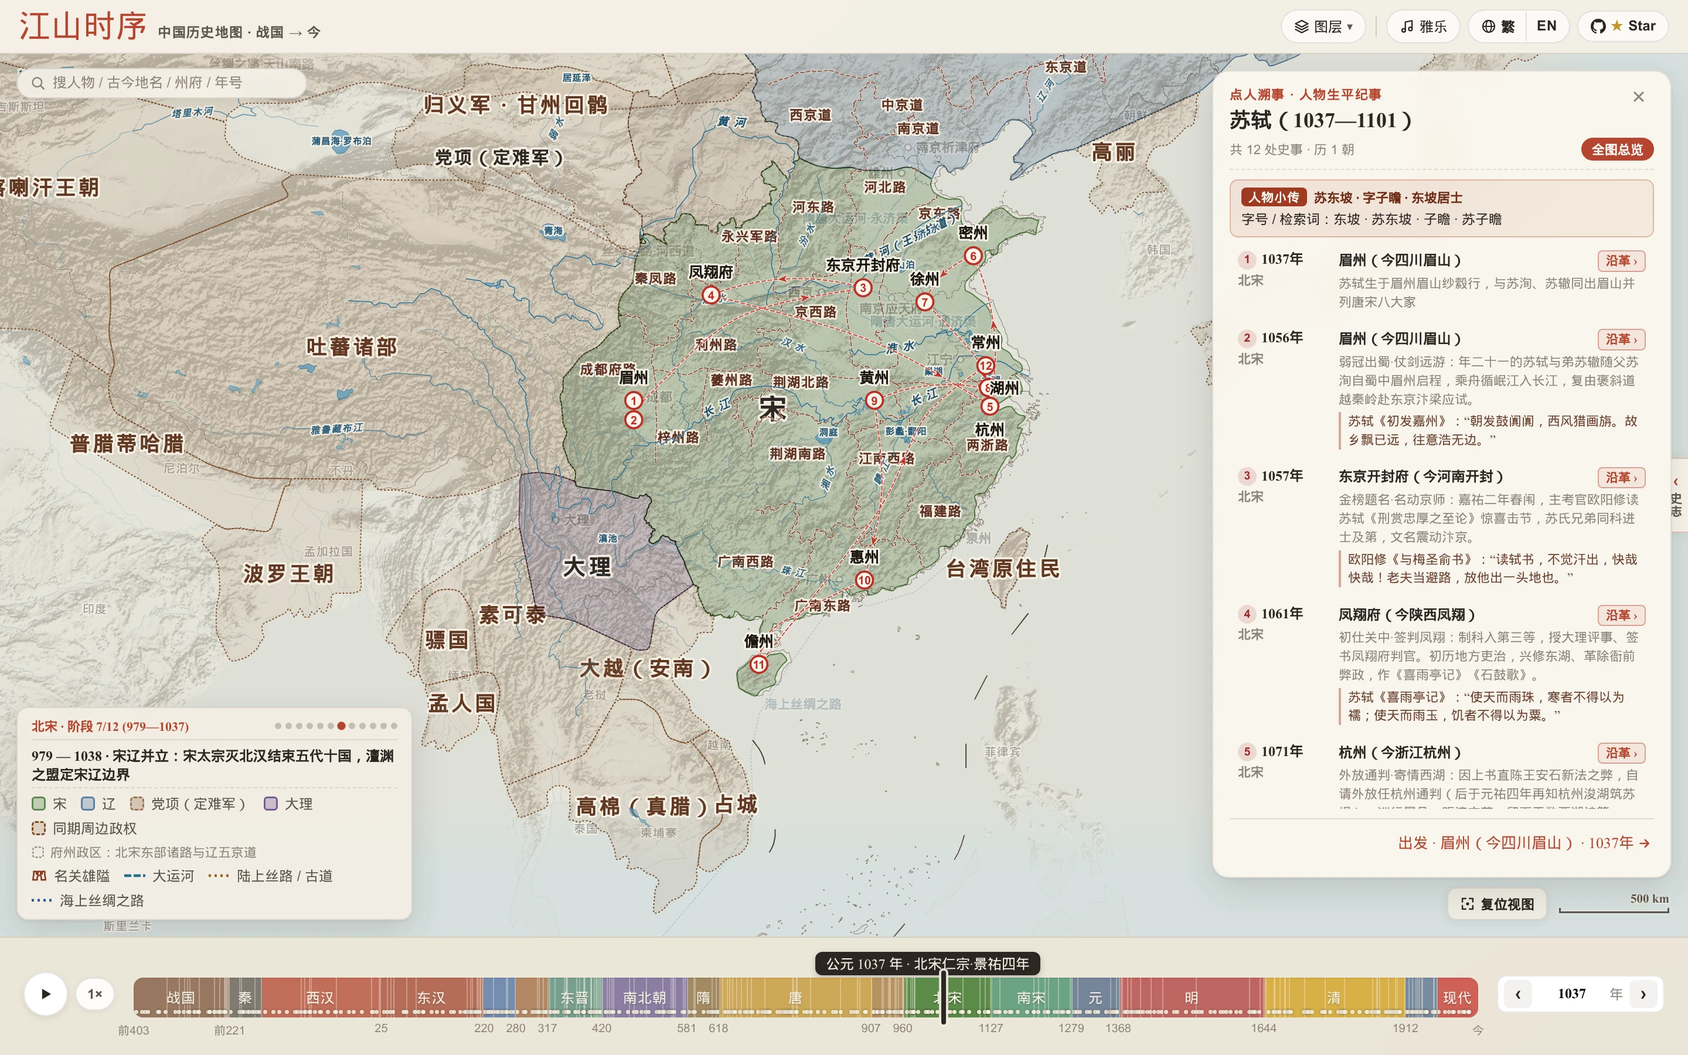
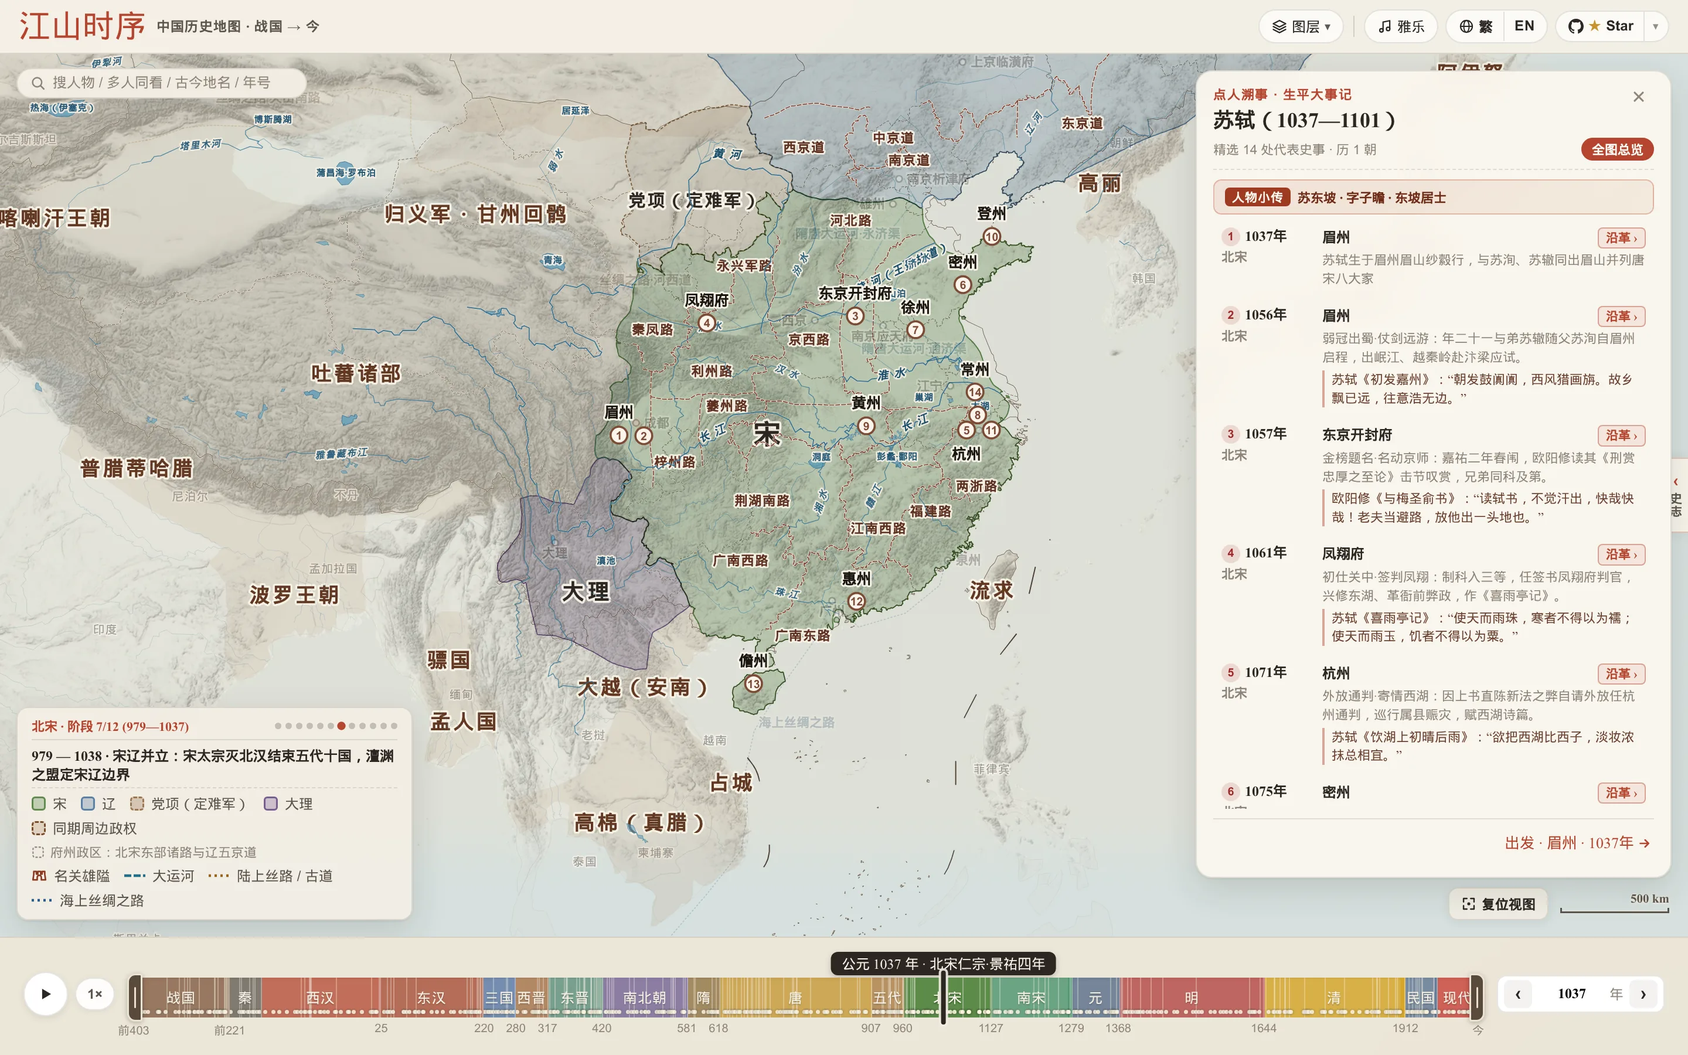
docs(readme): re-record hero animations and previews; document multi-person chronicles and event storylines

diff --git a/README_JA.md b/README_JA.md
@@ -45,7 +45,8 @@
 - **多段階の領土の変遷と、破線の「Ghost Boundary Diff」**：秦の巴蜀の征服（紀元前 316 年）、燕の将軍・秦開による遼東への拡大（紀元前 300 年）、交趾に立てた馬援の銅柱（43 年）、司馬懿の遼東遠征（238 年）、李靖による吐谷渾の征服（635 年）、安西四鎮と王玄策の中天竺への遠征（648 年）、元の宣政院によるチベットの統治（1288 年）、明の哈密と嘉峪関以西の七衛（1404 年）、イリを回復した 1881 年のサンクトペテルブルク条約、1898 年の外国の租借地、1945 年の台湾の返還、そして 1946 年の **「秋海棠」（秋海棠）** の地図から **「雄鶏」（雄鸡）** の地図への移行など、領土の大きな節目ごとに、出来事や時期の点をクリックすると地図が切り替わり、前の時期の朱色の破線の **Ghost Boundary Diff** が表示されるので、領土の増減がひと目でわかります。
 - **在位中の君主と元号のインライン表示**：タイムラインには、在位中の君主（廟号・諡号 + 名 + 在位期間。例：`Emperor Wu of Han · Liu Che`、`Emperor Taizong of Tang · Li Shimin`、`Emperor Shengzu of Qing · Xuanye`）と、その正確な元号の年が動的に表示されます。
 - **古代の行政区画のホバーでの確認と、現代の X-Ray Lens**：第一級の行政区画（郡、道、路、省）は、重複を除いた **Parchment Casing** の境界線で描かれます。ズームしてどの行政区画（例：明の `Yingtian Prefecture` や三国時代の `Jingzhou`）にカーソルを合わせても、その管轄と対応する現代の省を確認できます。**X-Ray Lens** を切り替えると、現代の省の境界線を歴史地図の上に直接重ねられます。
-- **動く河道、古代の湖、大規模な土木事業**：時間をスクロールすると、黄河の流路の歴史的な変化、広がったり縮んだりする古代の湖（*雲夢沢*、*ロプノール / 蒲昌海*）、戦国・秦・漢・明の長城、隋唐の運河と大運河、シルクロード、鄭和の航路が、それぞれの時代に合わせて変わっていきます。
+- **動く河道、古代の湖、大規模な土木事業**：時間をスクロールすると、黄河の流路の歴史的な変化、広がったり縮んだりする古代の湖（*雲夢沢*、*ロプノール / 蒲昌海*）、戦国・秦・漢・明の長城、隋唐の運河と大運河、シルクロード、鄭和の航路が、それぞれの時代に合わせて変わっていきます。渤海湾、江蘇北部、長江河口、珠江デルタの古代の海岸線も、時代とともに前進・後退します。
+- **ズームできるタイムライン**：タイムライン両端のハンドルを内側へドラッグすると、その期間だけを拡大できます（秦、三国、五代のような短い時代に便利です）。タイムラインをダブルクリックすると全体表示に戻ります。
 
 > [ライブで試す：明の永楽 13 年（1415 年）· 両京十三布政使司と「Yingtian Prefecture」の確認 →](https://deanchen.me/jiangshan-map/?year=1415&zoom=1.75&center=115.8,33.2&hover=Yingtian%20Prefecture&lang=en)
 
@@ -76,6 +77,8 @@
 - **李白の唐全土への大旅行（701～762 年）**：砕葉と蜀での少年時代から、24 歳で三峡を下って船出し、揚州で金を散じ、長安の翰林院に仕え、洛陽で杜甫に出会い、白帝城で恩赦を受け、晩年の当塗まで。
 - **蘇軾の宋全土にわたる文学と流謫（1056～1101 年）**：眉山を出て都の開封に向かい、密州で月を眺め、黄州での流謫中に『赤壁賦』を詠み、恵州を経て、海を渡って海南島の儋州へ至るまで。
 - **王陽明の知行合一（1472～1529 年）**：余姚での誕生と北京での投獄から、貴州の龍場での悟り、南贛での賊の平定、35 日で寧王の反乱を捕らえたこと、紹興の天泉橋での講学、そして南安での最期の言葉 *「此の心光明なり、亦た復た何をか言わん」* まで。
+- **複数人物の同時表示**：検索ボックスに 2〜3 人の名前を入力すると（例：`李白 杜甫 高適`、`曹操 劉備 孫権`）、それぞれの足跡が 1 本のタイムラインにまとめられます。同じ年に同じ場所で出会った地点は「同途」として示され、`同途 N` のピルでその地点だけに絞り込めます。
+- **歴史的事件のストーリーライン**：大きな事件も、人物の生涯と同じように地点ごとにたどれます。安史の乱（755〜763 年）は 3 幕・10 地点で展開し、唐の討伐軍と反乱軍を 2 色で塗り分けるので、両陣営の動きがひと目でわかります。
 
 次の出来事に進むたびに（`‹ / ›`、`← / →`、または `Space` で自動再生）、**タイムラインの年、在位中の君主、元号、王朝の領土が、その人物の足取りに合わせて変わります**。現在の移動の弧が強調され、まさにその場所で書かれた 2 か国語の一次史料の抜粋や詩も表示されます。
 
@@ -118,6 +121,7 @@
 - **都市の 2,400 年の系譜を確認**：[`?year=741&place=长安&lang=en`](https://deanchen.me/jiangshan-map/?year=741&place=长安&lang=en)（長安 / 西安）/ [`?year=1415&place=应天府&lang=en`](https://deanchen.me/jiangshan-map/?year=1415&place=应天府&lang=en)（建康 / 応天 / 南京）/ [`?year=819&place=蓝关&lang=en`](https://deanchen.me/jiangshan-map/?year=819&place=蓝关&lang=en)（藍関の韓愈）
 - **独自の詩や遠征のルートを描く**：[`?year=763&place=剑外,巴峡,巫峡,襄阳,洛阳&lang=en`](https://deanchen.me/jiangshan-map/?year=763&place=剑外,巴峡,巫峡,襄阳,洛阳&lang=en)（763 年の杜甫の帰郷の道のり）/ [`?year=1079,1080,1094,1097&place=湖州,黄州,惠州,儋州&lang=en`](https://deanchen.me/jiangshan-map/?year=1079,1080,1094,1097&place=湖州,黄州,惠州,儋州&lang=en)（湖州、黄州、恵州、儋州にわたる、蘇軾の何年にもわたる流謫の道のり）
 - **人物の時空の年代記を開く**：[`?person=qinshihuang&lang=en`](https://deanchen.me/jiangshan-map/?person=qinshihuang&lang=en)（始皇帝）/ [`?person=zhangqian&lang=en`](https://deanchen.me/jiangshan-map/?person=zhangqian&lang=en)（張騫）/ [`?person=zhugeliang&lang=en`](https://deanchen.me/jiangshan-map/?person=zhugeliang&lang=en)（諸葛亮）/ [`?person=xuanzang&lang=en`](https://deanchen.me/jiangshan-map/?person=xuanzang&lang=en)（玄奘）/ [`?person=libai&lang=en`](https://deanchen.me/jiangshan-map/?person=libai&lang=en)（李白）/ [`?person=sushi&lang=en`](https://deanchen.me/jiangshan-map/?person=sushi&lang=en)（蘇軾）/ [`?person=wangyangming&lang=en`](https://deanchen.me/jiangshan-map/?person=wangyangming&lang=en)（王陽明）
+- **複数人物の比較や事件をたどる**：[`?person=libai,dufu&lang=en`](https://deanchen.me/jiangshan-map/?person=libai,dufu&lang=en)（李白と杜甫）/ [`?person=caocao,liubei,sunquan&lang=en`](https://deanchen.me/jiangshan-map/?person=caocao,liubei,sunquan&lang=en)（曹操・劉備・孫権）/ [`?event=anshi&lang=en`](https://deanchen.me/jiangshan-map/?event=anshi&lang=en)（安史の乱）
 - **クイズを始める**：[`?year=-121&quiz=locate&lang=en`](https://deanchen.me/jiangshan-map/?year=-121&quiz=locate&lang=en)（Map Pinpoint Challenge）
 - **UI の言語を切り替える**：[`?lang=en`](https://deanchen.me/jiangshan-map/?lang=en)（英語）/ [`?lang=zh-tw`](https://deanchen.me/jiangshan-map/?lang=zh-tw)（繁体字中国語）/ [`/`](https://deanchen.me/jiangshan-map/)（簡体字中国語）
 

diff --git a/README.md b/README.md
@@ -45,7 +45,8 @@ Have you ever wondered while reading Chinese history or classical poetry:
 - **Multi-Stage Territorial Evolution & Dashed "Ghost Boundary Diffs"**: At every major territorial milestone—such as Qin's conquest of Ba-Shu (316 BCE), Yan General Qin Kai's expansion into Liaodong (300 BCE), Ma Yuan's bronze pillars in Jiaozhi (43 CE), Sima Yi's campaign in Liaodong (238 CE), Li Jing's conquest of Tuyuhun (635 CE), the Four Garrisons of Anxi & Wang Xuance's campaign in Central India (648 CE), Yuan's Xuanzhengyuan rule over Tibet (1288 CE), Ming's Hami & Seven Guards West of Jiayuguan (1404 CE), the 1881 Treaty of Saint Petersburg recovering Ili, the 1898 foreign leased territories, the 1945 retrocession of Taiwan, and the 1946 transition from the **"Begonia Leaf" (秋海棠)** map to the **"Rooster" (雄鸡)** map—click any milestone or phase dot to switch maps and reveal the previous phase's dashed vermilion **Ghost Boundary Diff** so territorial gains and losses are immediately visible.
 - **Inline Reigning Monarch & Imperial Era Display**: The timeline dynamically displays the reigning monarch (temple/posthumous title + personal name + reign span, e.g., `Emperor Wu of Han · Liu Che`, `Emperor Taizong of Tang · Li Shimin`, `Emperor Shengzu of Qing · Xuanye`) alongside the exact imperial era year.
 - **Ancient Prefecture Hover Inspection & Modern X-Ray Lens**: First-level administrative divisions (Commanderies, Circuits, Routes, and Provinces) are rendered with deduplicated **Parchment Casing** borders. Zoom in and hover over any prefecture (e.g., Ming `Yingtian Prefecture` or Three Kingdoms `Jingzhou`) to inspect its jurisdiction and modern provincial equivalents, or toggle the **X-Ray Lens** to project modern provincial boundaries directly over the historical map.
-- **Dynamic River Courses, Ancient Lakes & Grand Engineering Works**: As you scrub through time, historical shifts of the Yellow River, expanding and shrinking ancient lakes (*Yunmeng Marsh*, *Lop Nur / Puchanghai*), Warring States/Qin/Han/Ming Great Walls, Sui-Tang & Grand Canals, the Silk Road, and Zheng He's maritime routes evolve in lockstep with each era.
+- **Dynamic River Courses, Ancient Lakes & Grand Engineering Works**: As you scrub through time, historical shifts of the Yellow River, expanding and shrinking ancient lakes (*Yunmeng Marsh*, *Lop Nur / Puchanghai*), Warring States/Qin/Han/Ming Great Walls, Sui-Tang & Grand Canals, the Silk Road, and Zheng He's maritime routes evolve in lockstep with each era; ancient coastlines around the Bohai Gulf, northern Jiangsu, the Yangtze estuary, and the Pearl River Delta also advance and retreat by era.
+- **Zoomable Timeline**: Drag the handles at either end of the timeline inward to zoom into one stretch of history (handy for short eras such as Qin, the Three Kingdoms, or the Five Dynasties); double-click the timeline to return to the full overview.
 
 > [Try It Live: Ming Dynasty Yongle 13 (1415 CE) · Two Capitals, Thirteen Provinces & "Yingtian Prefecture" Inspection →](https://deanchen.me/jiangshan-map/?year=1415&zoom=1.75&center=115.8,33.2&hover=Yingtian%20Prefecture&lang=en)
 
@@ -76,6 +77,8 @@ Click the top-left **Universal Search Box** (with a rotatable `e.g.` figure prev
 - **Li Bai's Grand Travels Across Tang China (701–762 CE)**: From Suyab and boyhood in Shu, sailing out through the Three Gorges at twenty-four, scattering gold in Yangzhou, serving in the Hanlin Academy at Chang'an, meeting Du Fu in Luoyang, receiving amnesty at White Emperor City, to his final years at Dangtu.
 - **Su Shi's Literary Exile Across Song China (1056–1101 CE)**: From leaving Meishan for the capital Kaifeng and gazing at the moon in Mizhou, to composing the *Red Cliffs Rhapsody* in Huangzhou exile, Huizhou, and crossing the sea to Danzhou on Hainan Island.
 - **Wang Yangming's Unity of Knowledge & Action (1472–1529 CE)**: From birth in Yuyao and imprisonment in Beijing, to his enlightenment at Longchang in Guizhou, pacifying bandits in Southern Ganzhou, capturing the rebel Prince of Ning in 35 days, teaching at the Tianquan Bridge in Shaoxing, and his final words *"This mind is bright and clear; what more is there to say?"* at Nan'an.
+- **Multi-Person Chronicles**: Type two or three names into the search box (e.g. `Li Bai, Du Fu, Gao Shi` or `Cao Cao, Liu Bei, Sun Quan`) to merge their journeys onto one timeline. Places where they met in the same year are marked as shared encounters, and the `Shared N` pill narrows the list to just those stops.
+- **Event Storylines**: Major events unfold stop by stop, just like a person's life. The An Lushan Rebellion (755–763 CE) is laid out in ten stops across three acts, with the Tang loyalists and the rebels drawn in two colors so each side's advances are easy to follow.
 
 Each time you step to the next event (`‹ / ›`, `← / →`, or `Space` to auto-play), **the timeline year, reigning monarch, imperial era, and dynastic territories evolve in sync with their footsteps**, highlighting the active transition arc alongside bilingual primary-source excerpts and poems written at that exact site.
 
@@ -118,6 +121,7 @@ Append query parameters to share any historical moment, battle, city genealogy, 
 - **Inspect a city's 2,400-year genealogy**: [`?year=741&place=长安&lang=en`](https://deanchen.me/jiangshan-map/?year=741&place=长安&lang=en) (Chang'an / Xi'an) / [`?year=1415&place=应天府&lang=en`](https://deanchen.me/jiangshan-map/?year=1415&place=应天府&lang=en) (Jiankang / Yingtian / Nanjing) / [`?year=819&place=蓝关&lang=en`](https://deanchen.me/jiangshan-map/?year=819&place=蓝关&lang=en) (Han Yu at Languan Pass)
 - **Plot a custom poetic or campaign route**: [`?year=763&place=剑外,巴峡,巫峡,襄阳,洛阳&lang=en`](https://deanchen.me/jiangshan-map/?year=763&place=剑外,巴峡,巫峡,襄阳,洛阳&lang=en) (Du Fu's 763 CE homeward route) / [`?year=1079,1080,1094,1097&place=湖州,黄州,惠州,儋州&lang=en`](https://deanchen.me/jiangshan-map/?year=1079,1080,1094,1097&place=湖州,黄州,惠州,儋州&lang=en) (Su Shi's multi-year exile route across Huzhou, Huangzhou, Huizhou, and Danzhou)
 - **Open a person's spatio-temporal chronicle**: [`?person=qinshihuang&lang=en`](https://deanchen.me/jiangshan-map/?person=qinshihuang&lang=en) (Qin Shi Huang) / [`?person=zhangqian&lang=en`](https://deanchen.me/jiangshan-map/?person=zhangqian&lang=en) (Zhang Qian) / [`?person=zhugeliang&lang=en`](https://deanchen.me/jiangshan-map/?person=zhugeliang&lang=en) (Zhuge Liang) / [`?person=xuanzang&lang=en`](https://deanchen.me/jiangshan-map/?person=xuanzang&lang=en) (Xuanzang) / [`?person=libai&lang=en`](https://deanchen.me/jiangshan-map/?person=libai&lang=en) (Li Bai) / [`?person=sushi&lang=en`](https://deanchen.me/jiangshan-map/?person=sushi&lang=en) (Su Shi) / [`?person=wangyangming&lang=en`](https://deanchen.me/jiangshan-map/?person=wangyangming&lang=en) (Wang Yangming)
+- **Compare several people or follow an event**: [`?person=libai,dufu&lang=en`](https://deanchen.me/jiangshan-map/?person=libai,dufu&lang=en) (Li Bai & Du Fu) / [`?person=caocao,liubei,sunquan&lang=en`](https://deanchen.me/jiangshan-map/?person=caocao,liubei,sunquan&lang=en) (Cao Cao, Liu Bei & Sun Quan) / [`?event=anshi&lang=en`](https://deanchen.me/jiangshan-map/?event=anshi&lang=en) (An Lushan Rebellion)
 - **Start a quiz round**: [`?year=-121&quiz=locate&lang=en`](https://deanchen.me/jiangshan-map/?year=-121&quiz=locate&lang=en) (Map Pinpoint Challenge)
 - **Switch UI language**: [`?lang=en`](https://deanchen.me/jiangshan-map/?lang=en) (English) / [`?lang=zh-tw`](https://deanchen.me/jiangshan-map/?lang=zh-tw) (Traditional Chinese) / [`/`](https://deanchen.me/jiangshan-map/) (Simplified Chinese)
 

diff --git a/README_ZH.md b/README_ZH.md
@@ -45,7 +45,8 @@
 - **多阶段疆域演进与「虚线残影」对比**：每一个重大开疆或失地节点——如前 316 年司马错灭巴蜀、前 300 年燕将秦开破东胡辟辽东五郡、43 年马援平交趾立铜柱、238 年司马懿平公孙渊收辽东、635 年李靖平吐谷浑、648 年置安西四镇与王玄策破中天竺、1288 年元设宣政院直辖西藏、1404 年明置哈密卫与关西七卫、1643 年大顺大西起兵、1673 年三藩之乱、1881 年曾纪泽签《中俄伊犁条约》收复伊犁、1898 年列强强租胶州湾/旅大/威海卫/九龙新界，乃至 1945 年抗战胜利台湾光复（“秋海棠”重光）与 1946 年外蒙古独立（版图由**“秋海棠”变为“雄鸡”**）——点击编年事件或阶段圆点，版图即刻切换并浮现上一阶段的朱砂虚线残影，盈亏得失一目了然。
 - **当朝在位帝王与年号同步显示**：时间轴实时内联展示当年在位君主（庙号 / 谥号 + 姓名 + 在位起止年，如 `汉武帝 刘彻`、`唐太宗 李世民`、`清圣祖 玄烨`）及历代年号纪年。
 - **历代州府悬停即查 & 古今透视镜**：一级政区采用拓扑去重与宣纸衬底双重描边（Parchment Casing）；放大地图悬停任意州郡（如明代的「应天府」「顺天府」、三国的「荆州」）即可查看政区归属与今省对照，还可打开 **「透视镜」** 在古舆图上直接投射现代省界。
-- **水系古泽与千年工程随年代流转**：拉动时间轴时，黄河历代改道、云梦泽与罗布泊（蒲昌海）等古湖消长，以及战国秦汉明长城、隋唐与京杭大运河、丝绸之路、郑和航线均随当朝版图同步演进。
+- **水系古泽与千年工程随年代流转**：拉动时间轴时，黄河历代改道、云梦泽与罗布泊（蒲昌海）等古湖消长，以及战国秦汉明长城、隋唐与京杭大运河、丝绸之路、郑和航线均随当朝版图同步演进；渤海湾、苏北、长江口与珠江三角洲的古海岸线也会随年代进退。
+- **时间轴可缩放**：向内拖动时间轴两端的手柄可放大某一段历史（如秦、三国、五代这类短朝代），双击时间轴恢复全览。
 
 > [点击直达：大明永乐十三年（1415 年）· 两京十三布政使司与「应天府」府境探查 →](https://deanchen.me/jiangshan-map/?year=1415&zoom=1.75&center=115.8,33.2&hover=%E5%BA%94%E5%A4%A9%E5%BA%9C)
 
@@ -76,6 +77,8 @@
 - **李白仗剑壮游行迹（701 — 762 年）**：自安西碎叶入蜀居青莲，二十四岁仗剑出三峡、漫游扬州散金三十万、酒隐安陆、仰天大笑入长安供奉翰林、洛阳逢杜甫、白帝城遇赦放舟，终老当涂青山。
 - **苏轼宦海贬谪行迹（1056 — 1101 年）**：从出川赴京、密州超然台赏月，到乌台诗案后贬谪黄州写下《赤壁赋》，再到惠州、跨海远谪海南儋州。
 - **王阳明心学立功行迹（1472 — 1529 年）**：从余姚瑞云楼降生、京师抗疏下诏狱，到贬谪贵州修文「龙场悟道」始倡知行合一、庐陵讲学、巡抚南赣破山贼、三十五日生擒宁王朱宸濠、绍兴天泉证道揭出「致良知」，直至总督两广归途舟次南安留下「此心光明，亦复何言」。
+- **多人同看**：在搜索框里一次输入两三个人物（如 `李白 杜甫 高适`、`曹操 刘备 孙权`），几人的行迹合并到同一条时间轴上，同年同地的相逢以「同途」标出，点 `同途 N` 可只看交集站点。
+- **点事溯局**：重大历史事件也能像人物一样逐站展开。以安史之乱（755 — 763 年）为例，十个节点分三幕铺开，平叛方与叛军用两种颜色区分，攻守路线一目了然。
 
 每切换上一处 / 下一处史事（点击面板 **`‹ / ›`**、键盘方向键或按空格键自动演进），**底下的历史年份、在位君主与年号、王朝版图都会跟着古人的脚步同步流转**，单段朱砂飞白弧线精准高亮当前行程，并附有《史记》《出师表》《传习录》或唐宋千古名篇原句。
 
@@ -118,6 +121,7 @@
 - **查某座古城或名胜的千年故事**：[`?year=741&place=长安`](https://deanchen.me/jiangshan-map/?year=741&place=长安)（长安/西安） / [`?year=1415&place=应天府`](https://deanchen.me/jiangshan-map/?year=1415&place=应天府)（建康/应天/南京） / [`?year=819&place=蓝关`](https://deanchen.me/jiangshan-map/?year=819&place=蓝关)（韩愈「雪拥蓝关马不前」）
 - **画一条自定义诗词/行军路线**：[`?year=763&place=剑外,巴峡,巫峡,襄阳,洛阳`](https://deanchen.me/jiangshan-map/?year=763&place=剑外,巴峡,巫峡,襄阳,洛阳)（杜甫《闻官军收河南河北》同年归乡路） / [`?year=1079,1080,1094,1097&place=湖州,黄州,惠州,儋州`](https://deanchen.me/jiangshan-map/?year=1079,1080,1094,1097&place=湖州,黄州,惠州,儋州)（苏轼「黄州惠州儋州」跨年贬谪路）
 - **展阅历史人物生平与行迹**：[`?person=qinshihuang`](https://deanchen.me/jiangshan-map/?person=qinshihuang)（秦始皇一统六国） / [`?person=zhangqian`](https://deanchen.me/jiangshan-map/?person=zhangqian)（张骞凿空西域） / [`?person=zhugeliang`](https://deanchen.me/jiangshan-map/?person=zhugeliang)（诸葛亮出山北伐） / [`?person=xuanzang`](https://deanchen.me/jiangshan-map/?person=xuanzang)（玄奘西行求法） / [`?person=libai`](https://deanchen.me/jiangshan-map/?person=libai)（李白仗剑壮游） / [`?person=sushi`](https://deanchen.me/jiangshan-map/?person=sushi)（苏轼宦海贬谪） / [`?person=wangyangming`](https://deanchen.me/jiangshan-map/?person=wangyangming)（王阳明心学立功）
+- **多人同看与历史事件**：[`?person=libai,dufu`](https://deanchen.me/jiangshan-map/?person=libai,dufu)（李白与杜甫） / [`?person=caocao,liubei,sunquan`](https://deanchen.me/jiangshan-map/?person=caocao,liubei,sunquan)（曹操、刘备、孙权） / [`?event=anshi`](https://deanchen.me/jiangshan-map/?event=anshi)（安史之乱）
 - **直接开一局挑战**：[`?year=-121&quiz=locate`](https://deanchen.me/jiangshan-map/?year=-121&quiz=locate)（舆图寻址挑战）
 - **切换繁简与英文界面**：[`?lang=zh-tw`](https://deanchen.me/jiangshan-map/?lang=zh-tw)（繁体中文） / [`?lang=en`](https://deanchen.me/jiangshan-map/?lang=en)（英文版）
 
